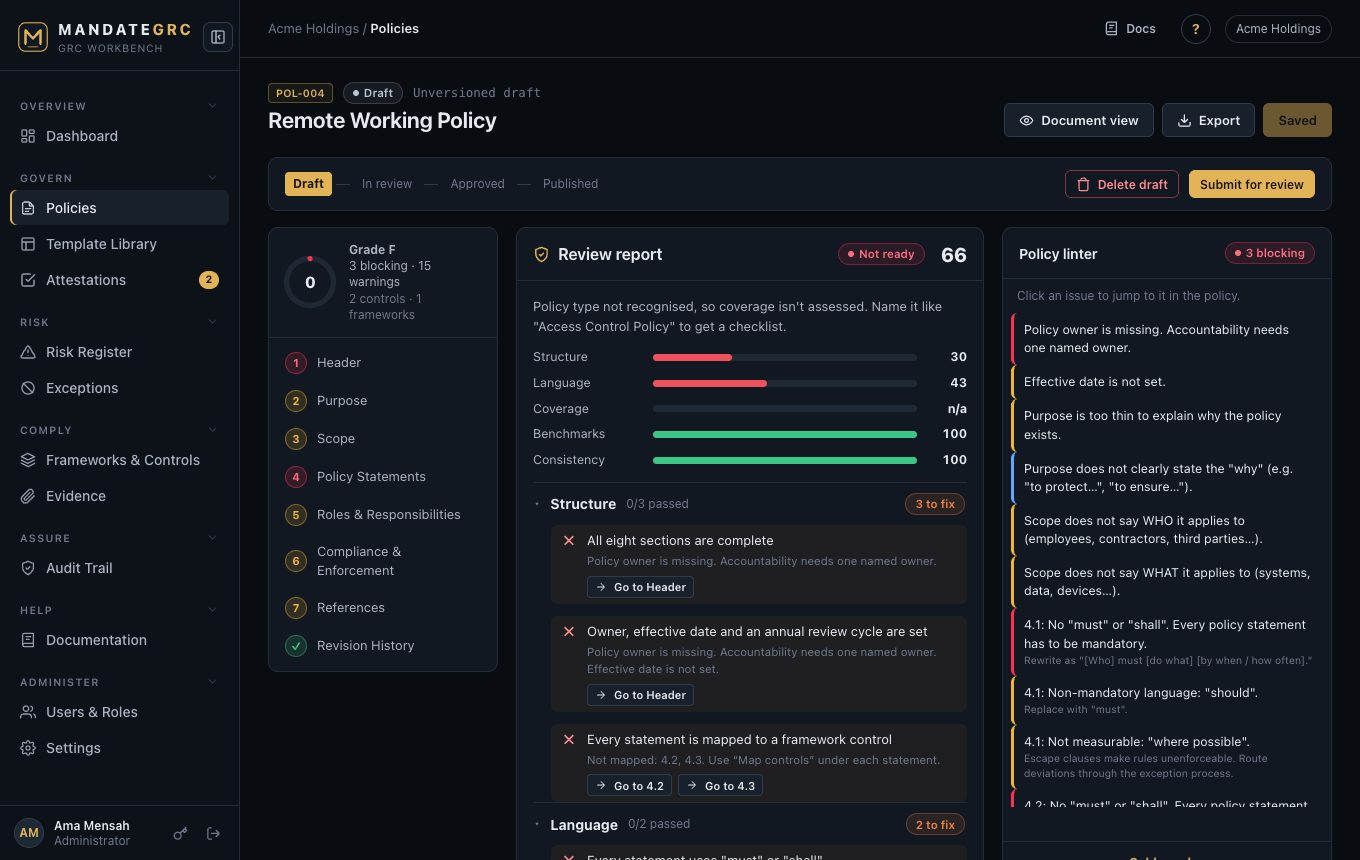
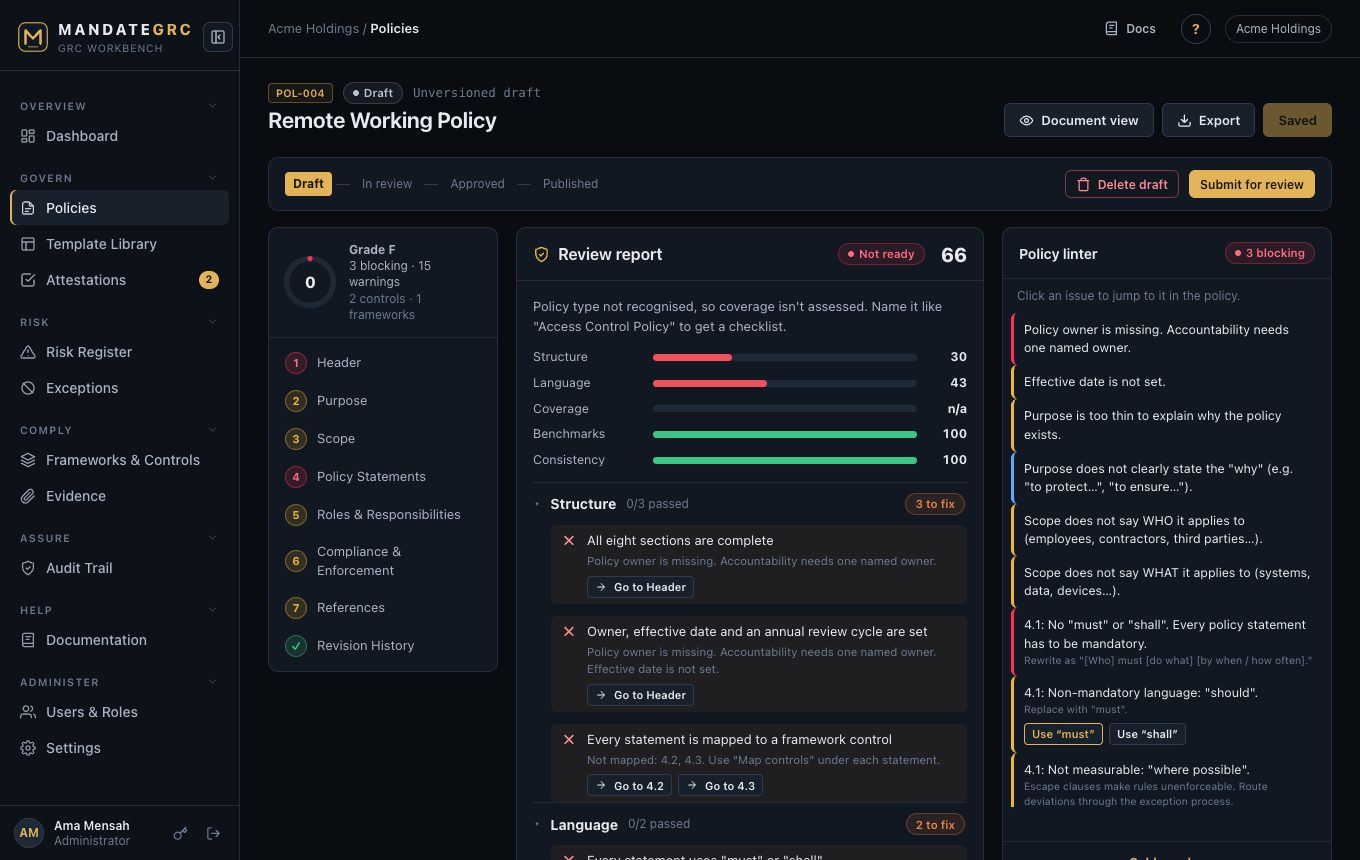
Suggest a replacement for every flagged word, with one-click fixes
Each weak or vague phrase now offers suggested replacements chosen from
context (e.g. 'should'/'may' -> must, 'regularly' -> quarterly/monthly,
'promptly' -> within 24 hours, 'appropriate encryption' -> AES-256,
escape clauses and 'etc.' -> remove). Suggestions appear under each
statement and in the Policy linter panel; applying one tidies spacing,
punctuation and capitalisation.

Changed region(s): [[0.7412, 0.8163, 0.9265, 0.9372]]

diff --git a/public/js/lint.js b/public/js/lint.js
@@ -16,33 +16,62 @@ export const SECTIONS = [
   { key: 'history', n: 8, title: 'Revision History', hint: 'Version table' },
 ];
 
-// Words that make a rule optional rather than mandatory.
+// Words that make a rule optional rather than mandatory. Each rule offers one-click
+// replacements (`fixes`): `to: ''` removes the phrase. `fixes` may be a function of the
+// matched text and the whole statement, so suggestions fit the context.
+const REMOVE = (label = 'Remove it') => [{ to: '', label }];
 const NON_MANDATORY = [
-  { re: /\bshould not\b/i, word: 'should not', fix: 'must not' },
-  { re: /\bshould\b/i, word: 'should', fix: 'must' },
-  { re: /\bought to\b/i, word: 'ought to', fix: 'must' },
-  { re: /\b(?:try|tries|attempt|attempts|strive|strives|endeavou?r|endeavou?rs) to\b/i, word: 'try to', tip: 'State the requirement outright with "must" / "shall".' },
-  { re: /\b(?:is|are) (?:encouraged|recommended|advised) to\b/i, word: 'encouraged/recommended', tip: 'Recommendations are guidance, not policy. Use "must" or move to a guideline.' },
-  { re: /\bbest[- ]effort\b/i, word: 'best effort', tip: 'Define the required outcome instead of effort.' },
-  { re: /\bideally\b/i, word: 'ideally', tip: 'State what is required, not what is ideal.' },
-  { re: /\bwe hope\b/i, word: 'we hope', tip: 'Policies mandate; they do not hope.' },
-  { re: /\bmay\b(?! (?:not|only))/i, word: 'may', tip: '"May" is permissive. Use "must" for requirements, or "may only … when …" for controlled permission.' },
+  { re: /\bshould not\b/i, word: 'should not', fixes: [{ to: 'must not' }] },
+  { re: /\bshould\b/i, word: 'should', fixes: [{ to: 'must' }, { to: 'shall' }] },
+  { re: /\bought to\b/i, word: 'ought to', fixes: [{ to: 'must' }] },
+  { re: /\b(?:will |shall |must |should )?(?:try|tries|attempt|attempts|strive|strives|endeavou?r|endeavou?rs|aim|aims) to\b/i, word: 'try to', tip: 'State the requirement outright.', fixes: [{ to: 'must' }] },
+  { re: /\b(?:is|are) (?:encouraged|recommended|advised|expected) to\b/i, word: 'encouraged/recommended', tip: 'Recommendations are guidance, not policy.', fixes: [{ to: 'must' }] },
+  { re: /\b(?:on a )?best[- ]efforts?(?: basis)?\b/i, word: 'best effort', tip: 'Define the required outcome instead of effort.', fixes: REMOVE() },
+  { re: /\bideally,?\s*/i, word: 'ideally', tip: 'State what is required, not what is ideal.', fixes: REMOVE() },
+  { re: /\bwe hope(?: that)?\s*/i, word: 'we hope', tip: 'Policies mandate; they do not hope.', fixes: REMOVE() },
+  { re: /\bmay\b(?! (?:not|only))/i, word: 'may', tip: '"May" is permissive. Use "must" for a requirement, or "may only … when …" for a controlled permission.', fixes: [{ to: 'must' }, { to: 'may only', label: 'may only … (then add the condition)' }] },
 ];
+// Weak verbs that only matter when the statement has no "must"/"shall" at all.
+const WEAK_MANDATE = { re: /\b(?:will|need to|needs to|has to|have to|(?:is|are) required to)\b/i, word: 'will / need to' };
 
+// Context-aware replacements for "adequate", "appropriate" and similar.
+function standardFor(text) {
+  if (/encrypt|cipher|crypto/i.test(text)) return [{ to: 'AES-256' }, { to: 'TLS 1.2 or higher' }];
+  if (/password|passphrase|credential/i.test(text)) return [{ to: 'at least 14-character' }];
+  if (/access|permission|privilege|rights/i.test(text)) return [{ to: 'least-privilege, role-based' }];
+  if (/approv|authori[sz]/i.test(text)) return [{ to: 'documented, written' }];
+  if (/train|awareness/i.test(text)) return [{ to: 'annual' }];
+  if (/log|monitor/i.test(text)) return [{ to: 'centrally collected, tamper-evident' }];
+  if (/backup|retain|retention/i.test(text)) return [{ to: 'encrypted, off-site' }];
+  return [{ to: 'documented and approved' }];
+}
 // Words that cannot be measured or audited.
 const VAGUE = [
-  { re: /\b(?:periodically|regularly|from time to time|routinely|frequently)\b/i, word: 'periodically/regularly', tip: 'Specify a frequency, e.g. "every 90 days" or "quarterly".' },
-  { re: /\b(?:timely|promptly|as soon as possible|asap|quickly|immediately)\b/i, word: 'timely/promptly', tip: 'Specify a deadline, e.g. "within 24 hours".' },
-  { re: /\b(?:reasonable|adequate|sufficient|appropriate|proper|suitable)\b/i, word: 'adequate/appropriate', tip: 'Define the measurable standard (e.g. "AES-256", "14 characters", "TLS 1.2+").' },
-  { re: /\b(?:where possible|if possible|where practical|where feasible|as needed|when necessary|if necessary|as required)\b/i, word: 'where possible', tip: 'Escape clauses make rules unenforceable. Route deviations through the exception process.' },
-  { re: /\b(?:generally|normally|typically|usually|mostly)\b/i, word: 'generally/usually', tip: 'A rule applies or it does not. Remove the qualifier.' },
-  { re: /\b(?:etc\.?|and\/or|and so on)/i, word: 'etc./and-or', tip: 'Enumerate the items explicitly so the rule is testable.' },
-  { re: /\b(?:strong|secure|robust|complex) (?:passwords?|encryption|authentication)\b/i, word: 'strong/secure', tip: 'Define "strong": length, algorithm or standard.' },
+  { re: /\b(?:periodically|regularly|from time to time|routinely|frequently|on a regular basis|occasionally)\b/i, word: 'periodically/regularly', tip: 'Specify a frequency.',
+    fixes: [{ to: 'quarterly' }, { to: 'monthly' }, { to: 'annually' }, { to: 'every 90 days' }] },
+  { re: /\b(?:in a timely (?:manner|fashion)|promptly|as soon as (?:possible|practical|practicable)|asap|quickly|immediately|without delay|without undue delay)\b/i, word: 'timely/promptly', tip: 'Specify a deadline.',
+    fixes: [{ to: 'within 24 hours' }, { to: 'within 1 hour' }, { to: 'within 72 hours' }] },
+  { re: /\btimely\b/i, word: 'timely', tip: 'Specify the deadline, e.g. "within 24 hours of discovery".' },
+  { re: /\b(?<!(?:when|if|where|as) )(?:reasonable|adequate|sufficient|appropriate|appropriately|proper|properly|suitable|necessary)\b/i, word: 'adequate/appropriate', tip: 'Define the measurable standard (e.g. "AES-256", "14 characters", "TLS 1.2+").',
+    fixes: (m, text) => (/ly$/i.test(m) ? REMOVE() : [...standardFor(text), ...REMOVE()]) },
+  { re: /,?\s*\b(?:where possible|if possible|whenever possible|where practical|where practicable|where feasible|as needed|when necessary|if necessary|as required|as appropriate|when appropriate|if appropriate|where appropriate|when needed|if needed)\b,?/i, word: 'where possible', tip: 'Escape clauses make rules unenforceable. Route deviations through the exception process.', fixes: REMOVE() },
+  { re: /\b(?:generally|normally|typically|usually|mostly|in most cases|in principle),?\s*/i, word: 'generally/usually', tip: 'A rule applies or it does not.', fixes: REMOVE() },
+  { re: /,?\s*\b(?:etc\.?|and so on|and so forth)/i, word: 'etc.', tip: 'List the items explicitly so the rule is testable.', fixes: REMOVE('Remove it, then list every item') },
+  { re: /\band\/or\b/i, word: 'and/or', tip: 'Say which one you mean.', fixes: [{ to: 'and' }, { to: 'or' }] },
+  { re: /\b(?:strong|secure|robust|complex|good) (?:passwords?|encryption|authentication)\b/i, word: 'strong/secure', tip: 'Define "strong": length, algorithm or standard.',
+    fixes: (m) => (/password/i.test(m) ? [{ to: 'passwords of at least 14 characters' }] : /encrypt/i.test(m) ? [{ to: 'AES-256 encryption' }] : [{ to: 'multi-factor authentication' }]) },
 ];
 
 const MEASURABLE = /\d|\b(?:annually|yearly|quarterly|monthly|weekly|daily|hourly|every|within|before|prior to|no later than|at least|at most|minimum|maximum|each|all|never|only|unique|before)\b/i;
 const MANDATORY = /\b(?:must|shall)\b/i;
 const PROHIBITION = /\b(?:must not|shall not|must never|shall never|prohibited)\b/i;
+
+// Build the replacement options for a matched phrase. `from` is the regex that applyFix replaces.
+function fixesFor(rule, t) {
+  const m = (t.match(rule.re) || [''])[0];
+  const list = typeof rule.fixes === 'function' ? rule.fixes(m, t) : rule.fixes || [];
+  return list.map((f) => ({ from: rule.re.source, to: f.to, label: f.label || (f.to ? `“${f.to}”` : f.label) }));
+}
 
 export function analyzeStatement(text = '') {
   const t = String(text || '').trim();
@@ -52,13 +81,19 @@ export function analyzeStatement(text = '') {
     return findings;
   }
   if (!MANDATORY.test(t)) {
-    findings.push({ severity: 'error', message: 'No "must" or "shall". Every policy statement has to be mandatory.', tip: 'Rewrite as "[Who] must [do what] [by when / how often]."' });
+    // If a non-mandatory phrase ("should", "will try to") is flagged below, its fix covers this too.
+    const weak = NON_MANDATORY.some((w) => w.re.test(t)) ? null : t.match(WEAK_MANDATE.re);
+    findings.push({ severity: 'error', message: 'No "must" or "shall". Every policy statement has to be mandatory.', tip: weak ? `Replace "${weak[0]}" with "must".` : 'Rewrite as "[Who] must [do what] [by when / how often]."',
+      fixes: weak ? [{ from: WEAK_MANDATE.re.source, to: 'must', label: '“must”', once: true }] : [] });
   }
   for (const w of NON_MANDATORY) {
-    if (w.re.test(t)) findings.push({ severity: 'warning', word: w.word, message: `Non-mandatory language: "${w.word}".`, tip: w.tip || `Replace with "${w.fix}".`, fix: w.fix ? { from: w.re.source, to: w.fix } : null });
+    if (!w.re.test(t)) continue;
+    const fixes = fixesFor(w, t);
+    findings.push({ severity: 'warning', word: w.word, message: `Non-mandatory language: "${(t.match(w.re) || [w.word])[0].trim()}".`, tip: w.tip || `Replace with "${fixes[0].to}".`, fixes });
   }
   for (const w of VAGUE) {
-    if (w.re.test(t)) findings.push({ severity: 'warning', word: w.word, message: `Not measurable: "${(t.match(w.re) || [w.word])[0]}".`, tip: w.tip });
+    if (!w.re.test(t)) continue;
+    findings.push({ severity: 'warning', word: w.word, message: `Not measurable: "${(t.match(w.re) || [w.word])[0].replace(/^[,\s]+|[,\s]+$/g, '')}".`, tip: w.tip, fixes: fixesFor(w, t) });
   }
   if (MANDATORY.test(t) && !PROHIBITION.test(t) && !MEASURABLE.test(t)) {
     findings.push({ severity: 'info', message: 'No measurable criterion found.', tip: 'Add a frequency, deadline, threshold or standard so an auditor can test it.' });
@@ -66,11 +101,27 @@ export function analyzeStatement(text = '') {
   const words = t.split(/\s+/).length;
   if (words > 60) findings.push({ severity: 'info', message: `Long statement (${words} words).`, tip: 'Split into separate numbered statements. One rule per statement.' });
   if ((t.match(/\b(?:must|shall)\b/gi) || []).length > 3) findings.push({ severity: 'info', message: 'Several requirements in one statement.', tip: 'Split so each can be mapped and tested separately.' });
+  // Keep the first fix as `fix` for older callers.
+  for (const f of findings) f.fix = f.fixes?.[0] || null;
   return findings;
 }
 
+// Replace the matched phrase, then tidy spacing, punctuation and capitalisation.
 export function applyFix(text, fix) {
-  return text.replace(new RegExp(fix.from, 'gi'), (m) => (m[0] === m[0].toUpperCase() ? fix.to[0].toUpperCase() + fix.to.slice(1) : fix.to));
+  const re = new RegExp(fix.from, fix.once ? 'i' : 'gi');
+  let out = text.replace(re, (m, ...args) => {
+    const at = args[args.length - 2];
+    if (!fix.to) {
+      if (m.startsWith(',') && m.endsWith(',')) return ',';
+      // Keep a sentence-ending full stop that the removed phrase (e.g. "etc.") swallowed.
+      return m.endsWith('.') && !text.slice(at + m.length).trim() ? '.' : ' ';
+    }
+    const lead = m.match(/^[,\s]*/)[0];
+    const core = m.slice(lead.length);
+    return lead + (core[0] && core[0] === core[0].toUpperCase() && core[0] !== core[0].toLowerCase() ? fix.to[0].toUpperCase() + fix.to.slice(1) : fix.to);
+  });
+  out = out.replace(/[ \t]{2,}/g, ' ').replace(/\s+([,.;:])/g, '$1').replace(/,\s*,/g, ',').replace(/,\s*\./g, '.').replace(/^[\s,]+/, '').trimEnd();
+  return out.charAt(0).toUpperCase() + out.slice(1);
 }
 
 const WHO = /\b(?:employees?|staff|personnel|workforce|contractors?|consultants?|third[- ]part(?:y|ies)|vendors?|suppliers?|users?|everyone|temporary|interns?|members?)\b/i;
@@ -132,7 +183,7 @@ export function lintPolicy(p, opts = {}) {
   const seen = new Map();
   statements.forEach((s, i) => {
     const num = `4.${i + 1}`;
-    for (const f of analyzeStatement(s.text)) add('statements', f.severity, `${num}: ${f.message}`, { statementId: s.id, tip: f.tip, fix: f.fix, num });
+    for (const f of analyzeStatement(s.text)) add('statements', f.severity, `${num}: ${f.message}`, { statementId: s.id, tip: f.tip, fix: f.fix, fixes: f.fixes, num });
     const norm = String(s.text || '').toLowerCase().replace(/[^a-z0-9]+/g, ' ').trim();
     if (norm && seen.has(norm)) add('statements', 'warning', `${num} duplicates ${seen.get(norm)}.`, { statementId: s.id, num, cat: 'consistency' });
     else if (norm) seen.set(norm, num);

diff --git a/public/js/views/policies.js b/public/js/views/policies.js
@@ -335,7 +335,8 @@ export async function policyEditorView(el, id) {
     mount($('#lint', el), html`
       <div class="card-h"><h3>Policy linter</h3><span class="right small ${l.errors ? '' : 'muted'}">${l.errors ? html`<span class="pill s-error">${l.errors} blocking</span>` : (l.warnings ? html`<span class="pill s-medium">No blocking issues</span>` : html`<span class="pill s-ok">${p.status === 'draft' ? 'Ready for review' : 'Passes all rules'}</span>`)}</span></div>
       ${l.issues.length ? html`<div class="lint-hint muted small">Click an issue to jump to it in the policy.</div>` : ''}
-      <div class="list">${l.issues.length ? l.issues.map((i) => html`<button class="item ${i.severity}" data-goto="${i.statementId ? 'st-' + i.statementId : 'sec-' + i.section}">${i.message}${i.tip ? html`<small>${i.tip}</small>` : ''}</button>`) : html`<div class="empty"><b>Clean</b>This policy follows every rule.</div>`}</div>
+      <div class="list">${l.issues.length ? l.issues.map((i, k) => html`<div class="item ${i.severity}"><button class="item-go" data-goto="${i.statementId ? 'st-' + i.statementId : 'sec-' + i.section}">${i.message}${i.tip ? html`<small>${i.tip}</small>` : ''}</button>
+        ${i.fixes?.length && editable() ? html`<div class="fix-row">${i.fixes.map((fx, j) => html`<button class="btn xs ${j ? '' : 'fix-main'}" data-lfix="${k}:${j}" title="${fixTitle(fx)}">${fixLabel(fx)}</button>`)}</div>` : ''}</div>`) : html`<div class="empty"><b>Clean</b>This policy follows every rule.</div>`}</div>
       <div class="rules"><b>Golden rules</b><br>1. Use “must” and “shall”, never “should” or “we try to”.<br>2. Keep statements specific and measurable.<br>3. Map each policy to a framework.</div>`);
     // Per-statement findings with one-click fixes.
     p.statements.forEach((s) => {
@@ -343,7 +344,8 @@ export async function policyEditorView(el, id) {
       if (!box) return;
       const f = s.text ? analyzeStatement(s.text) : [];
       if (s.text && !(s.controls || []).length) f.push({ severity: 'warning', message: 'Not mapped to any framework control.', tip: 'Use “Map controls” to link it to ISO 27001, NIST, SOC 2 …' });
-      mount(box, html`${f.map((x, k) => html`<div class="finding ${x.severity}"><div><b>${x.message}</b> <span class="tip">${x.tip || ''}</span></div>${x.fix && editable() ? html`<button class="btn xs" data-fix="${s.id}:${k}">Fix: “${x.fix.to}”</button>` : ''}</div>`)}`);
+      mount(box, html`${f.map((x, k) => html`<div class="finding ${x.severity}"><div><b>${x.message}</b> <span class="tip">${x.tip || ''}</span>
+        ${x.fixes?.length && editable() ? html`<div class="fix-row"><span class="muted">Suggested:</span>${x.fixes.map((fx, j) => html`<button class="btn xs ${j ? '' : 'fix-main'}" data-fix="${s.id}:${k}:${j}" title="${fixTitle(fx)}">${fixLabel(fx)}</button>`)}</div>` : ''}</div></div>`)}`);
       box._findings = f;
     });
     const words = (p.purpose || '').trim().split(/\s+/).filter(Boolean).length;
@@ -448,15 +450,24 @@ export async function policyEditorView(el, id) {
   });
   on(el, 'click', '[data-unref]', (e, b) => { p.ref_controls = p.ref_controls.filter((c) => c !== Number(b.dataset.unref)); restructure(); });
   on(el, 'click', '[data-fix]', (e, b) => {
-    const [sid, k] = b.dataset.fix.split(':');
+    const [sid, k, j] = b.dataset.fix.split(':');
     const box = el.querySelector(`[data-findings="${sid}"]`);
-    const f = box._findings[Number(k)];
+    applyStatementFix(sid, box._findings[Number(k)].fixes[Number(j) || 0]);
+  });
+  on(el, 'click', '[data-lfix]', (e, b) => {
+    const [k, j] = b.dataset.lfix.split(':').map(Number);
+    const issue = lastReview?.lint.issues[k];
+    if (issue?.fixes?.[j]) applyStatementFix(issue.statementId, issue.fixes[j]);
+  });
+  function applyStatementFix(sid, fx) {
     const s = p.statements.find((x) => x.id === sid);
-    s.text = applyFix(s.text, f.fix);
+    if (!s || !fx || !editable()) return;
+    s.text = applyFix(s.text, fx);
     const ta = el.querySelector(`[data-stmt="${sid}"]`);
     if (ta) ta.value = s.text;
     refreshLint();
-  });
+    toast(fx.to ? `Replaced with “${fx.to}”.` : 'Removed.');
+  }
   on(el, 'click', '#add-role', () => { p.roles.push({ role: '', responsibility: '' }); restructure(); });
   on(el, 'click', '[data-del-role]', (e, b) => { p.roles.splice(Number(b.dataset.delRole), 1); restructure(); });
   on(el, 'click', '#std-roles', () => {
@@ -562,6 +573,10 @@ function scoreBars(rv) {
     return html`<div class="rv-score"><span>${c.label}</span><div class="bar"><i class="${v == null ? '' : v >= 85 ? 'ok' : v >= 60 ? 'warn' : 'bad'}" data-w="${v ?? 0}"></i></div><b>${v == null ? 'n/a' : v}</b></div>`;
   })}</div>`;
 }
+
+// Button text for a one-click wording fix: "Use “must”" or "Remove it".
+const fixLabel = (fx) => (fx.to ? (fx.label?.startsWith('“') ? `Use ${fx.label}` : fx.label) : fx.label || 'Remove it');
+const fixTitle = (fx) => (fx.to ? `Replace the flagged words with “${fx.to}”` : 'Delete the flagged words from the statement');
 
 export function reviewCard(rv, { editable = false, openCats = new Set() } = {}) {
   const byCat = (cat) => rv.checklist.filter((c) => c.cat === cat);

diff --git a/public/js/docs-content.js b/public/js/docs-content.js
@@ -109,7 +109,7 @@ export const DOCS = [
         { t: '2 · Write the Purpose', d: 'One paragraph explaining <b>why</b> the policy exists, for example: "This policy establishes … in order to protect …". The counter under the box shows words and paragraphs.', img: img('13-purpose') },
         { t: '3 · Define the Scope', d: 'Say <b>who</b> it applies to (employees, contractors, third parties) and <b>what</b> (systems, data, devices, facilities). The linter warns if either is missing.', img: img('13b-scope') },
         { t: '4 · Write the Policy Statements', d: 'One rule per statement, numbered 4.1, 4.2… Use the pattern <b>[Who] must [do what] [by when / how often]</b>. Under each statement, the findings explain any problem. Add statements with <b>Add statement</b>, and reorder or delete them with the arrows and bin icons.', img: img('14-statements') },
-        { t: 'Fix weak wording in one click', d: 'When a statement uses "should", a <b>Fix: "must"</b> button appears. Click it to rewrite the word in place. For vague words like "regularly" or "promptly", the tip tells you what to write instead, for example "every 90 days" or "within 24 hours".', img: img('16-fix-applied') },
+        { t: 'Fix weak wording in one click', d: 'Whenever a statement uses a word that does not belong in a policy, the finding under it shows <b>Suggested</b> replacements. Click one to rewrite the statement in place. For example, "should" or "may" offers <b>Use "must"</b>, "regularly" offers <b>quarterly</b>, <b>monthly</b> or <b>every 90 days</b>, "promptly" offers <b>within 24 hours</b>, and escape clauses like "where possible" or "etc." offer <b>Remove it</b>. Suggestions follow the context: "appropriate encryption" offers <b>AES-256</b>. The same buttons appear in the <b>Policy linter</b> panel. Always check that the suggested value fits your organization.', img: img('16-fix-applied') },
         { t: 'Map each statement to controls', d: 'Click <b>Map controls</b> under a statement. MandateGRC reads the statement and suggests matching controls from ISO 27001, NIST CSF, NIST 800-53, CIS, SOC 2, PCI DSS, HIPAA and GDPR, plus equivalent controls for anything already mapped (the crosswalk). Tick the ones that apply and click <b>Apply mappings</b>.', img: img('17-map-controls') },
         { t: '5 · Assign Roles & Responsibilities', d: 'Every policy needs an Owner, a Custodian (who operates the controls), Users and Management. Click <b>Add missing standard roles</b> to insert any that are missing, then edit each responsibility so it is specific to this policy.', img: img('18-roles') },
         { t: '6 · Write Compliance & Enforcement', d: 'State how compliance is verified, what happens on violation, and how exceptions are requested. On an empty section, <b>Insert standard enforcement clause</b> gives you a professional starting point.', img: img('19-enforcement') },

diff --git a/public/css/app.css b/public/css/app.css
@@ -259,11 +259,12 @@ table.t { width: 100%; border-collapse: collapse; }
 .finding.warning { border-left-color: var(--warn); }
 .finding.info { border-left-color: var(--blue); }
 .finding .tip { color: var(--muted); }
-.finding .btn { margin-left: auto; }
+.finding > div { flex: 1; min-width: 0; }
 .role-row { display: grid; grid-template-columns: 220px 1fr 30px; gap: 10px; padding: 10px 16px; border-bottom: 1px solid var(--border); }
 .lint { position: sticky; top: 78px; max-height: calc(100vh - 100px); display: flex; flex-direction: column; }
 .lint .list { overflow-y: auto; padding: 8px; }
-.lint .item { display: block; width: 100%; text-align: left; background: none; border: 0; color: var(--text); padding: 8px 10px; border-radius: 6px; cursor: pointer; font: 12.5px/1.45 var(--font); border-left: 3px solid transparent; }
+.lint .item { display: block; width: 100%; text-align: left; background: none; border: 0; color: var(--text); padding: 8px 10px; border-radius: 6px; font: 12.5px/1.45 var(--font); border-left: 3px solid transparent; }
+.lint .item-go { display: block; width: 100%; text-align: left; background: none; border: 0; padding: 0; color: inherit; font: inherit; cursor: pointer; }
 .lint .item:hover { background: var(--surface-2); }
 .lint .item.error { border-left-color: var(--crit); }
 .lint .item.warning { border-left-color: var(--warn); }
@@ -597,3 +598,7 @@ table.t { width: 100%; border-collapse: collapse; }
 .lint-hint { padding: 8px 14px 0; }
 @keyframes flash-target { 0%, 40% { box-shadow: 0 0 0 2px var(--gold); background-color: color-mix(in srgb, var(--gold) 10%, transparent); } 100% { box-shadow: 0 0 0 2px transparent; } }
 .flash { animation: flash-target 1.8s ease-out; border-radius: 8px; }
+
+/* One-click wording suggestions */
+.fix-row { display: flex; flex-wrap: wrap; align-items: center; gap: 6px; margin-top: 6px; }
+.fix-row .btn.fix-main { border-color: var(--gold); color: var(--gold); }
